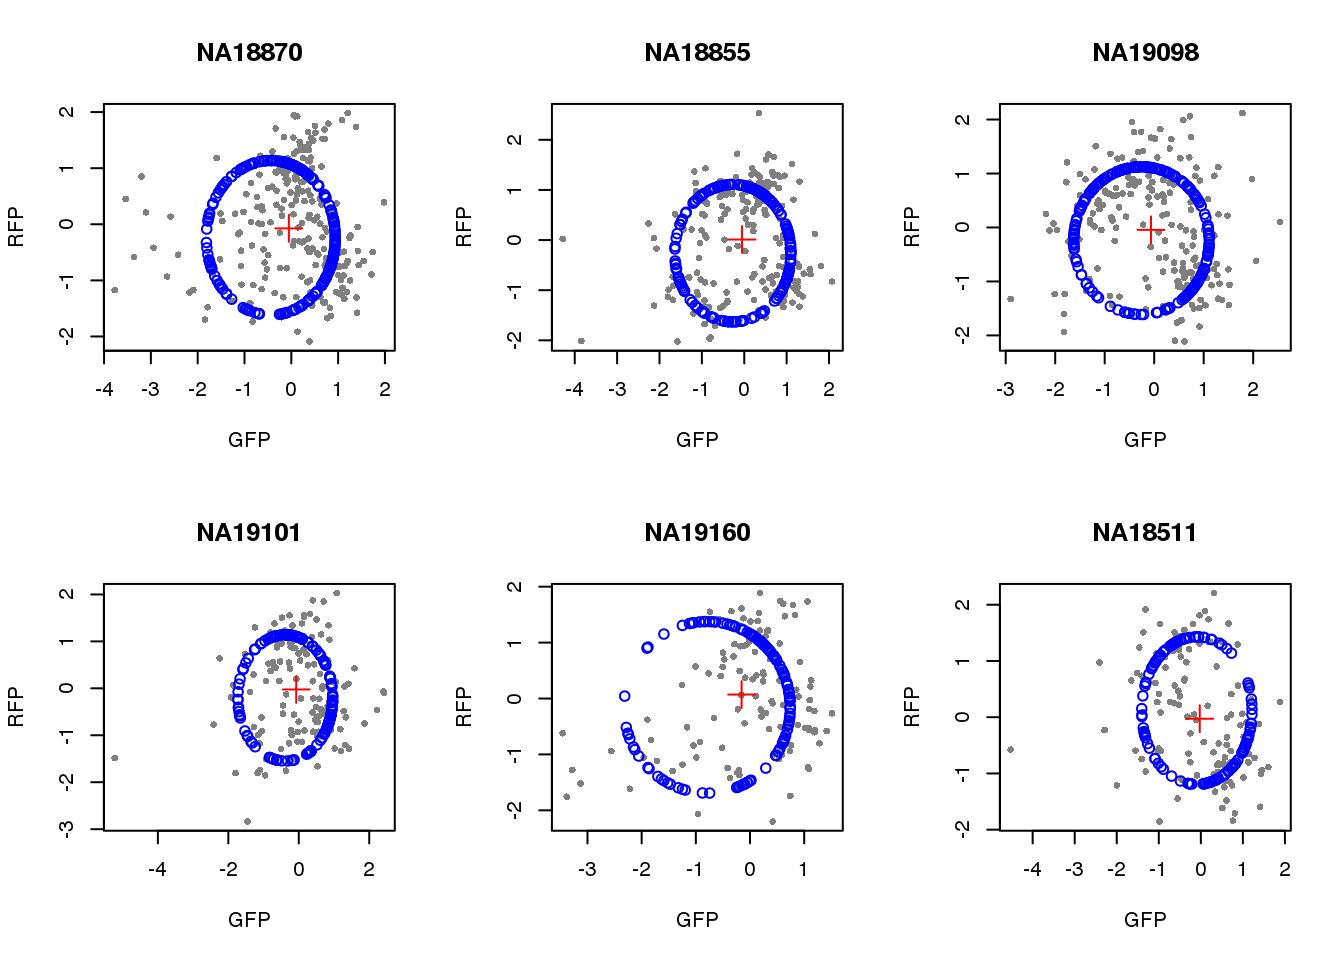
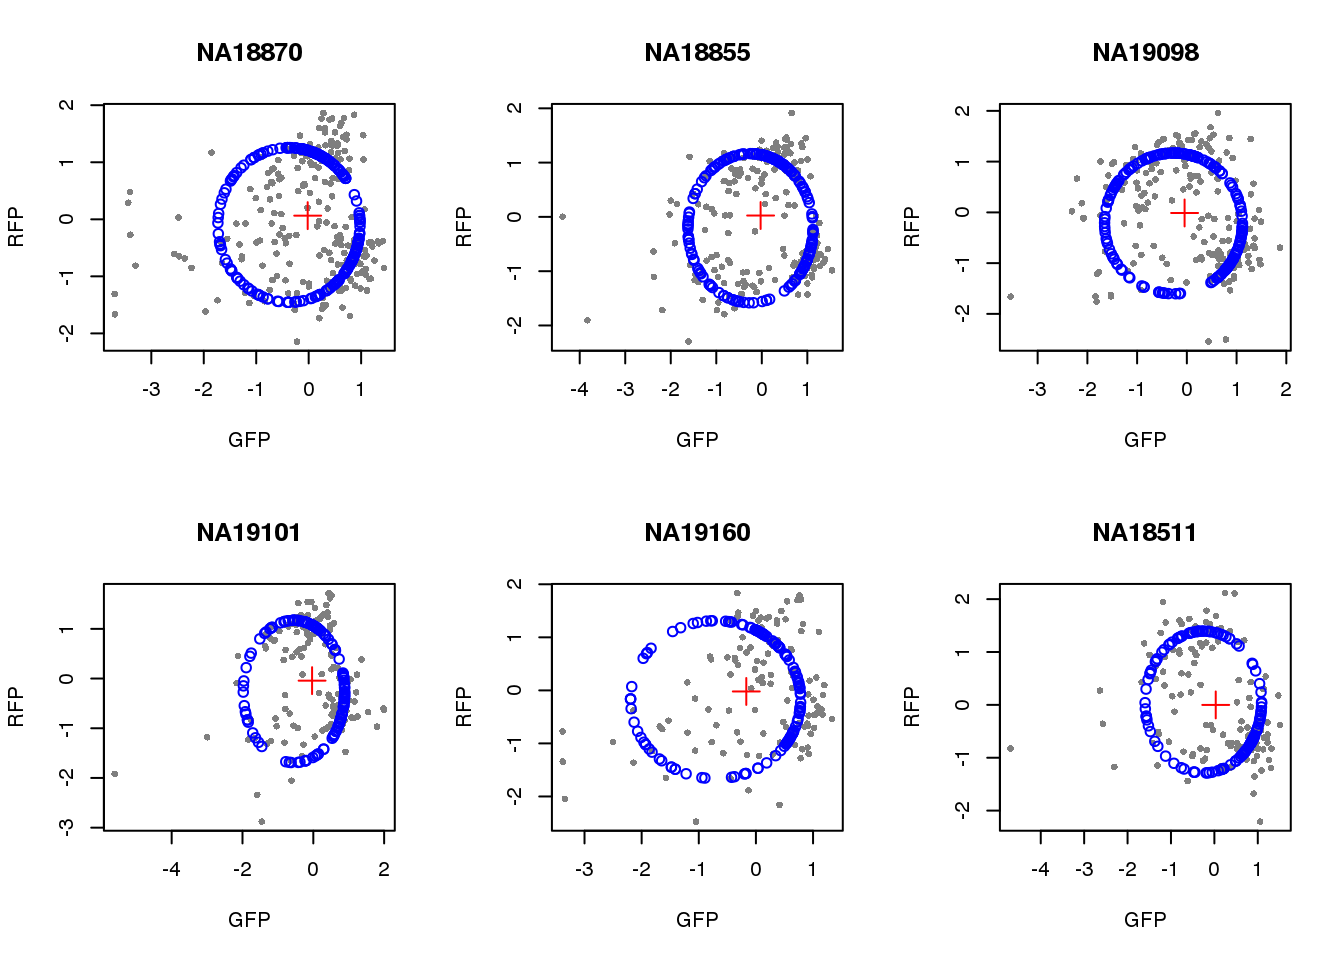
Build site.

diff --git a/docs/images-circle-ordering.html b/docs/images-circle-ordering.html
@@ -319,10 +319,10 @@ div.section {
 shared across the workflowr files. -->
 <!-- Update knitr chunk options -->
 <!-- Insert the date the file was last updated -->
-<p><strong>Last updated:</strong> 2018-02-22</p>
+<p><strong>Last updated:</strong> 2018-02-23</p>
 <!-- Insert the code version (Git commit SHA1) if Git repository exists and R
  package git2r is installed -->
-<p><strong>Code version:</strong> be8a2ca</p>
+<p><strong>Code version:</strong> f434aa3</p>
 <hr />
 <div id="overviewresults" class="section level2">
 <h2>Overview/Results</h2>
@@ -353,19 +353,18 @@ counts &lt;- exprs(df)[grep(&quot;ENSG&quot;, rownames(df)), ]
 
 # import corrected intensities
 pdata.adj &lt;- readRDS(&quot;../output/images-normalize-anova.Rmd/pdata.adj.rds&quot;)</code></pre>
-<p>visualize intensity data on a circle. project intensity data onto radians and the visualize the fitting on circles. then use cellcycleR to perform fitting and compare the model fitting with the projection results. it seems that the predicted ordering is especially bad for the gree intensities, which have many outliers. another reason I suspect isthat it attemps to fit similar amplitude/phase parameters to the green and red intensities.</p>
 </div>
 <div id="circle-fitting" class="section level2">
 <h2>Circle fitting</h2>
 <p>Based on all data.</p>
 <pre class="r"><code>source(&quot;../code/circle.intensity.fit.R&quot;)
-sample_names &lt;- rownames(pdata.adj)
+#sample_names &lt;- rownames(pdata.adj)
 
 pdata.adj &lt;- pdata.adj %&gt;% group_by(chip_id) %&gt;% 
-  mutate(rfp.z=scale(rfp.median.log10sum.adjust),
-            gfp.z=scale(gfp.median.log10sum.adjust),
-            dapi.z=scale(dapi.median.log10sum.adjust))
-rownames(pdata.adj) &lt;- sample_names
+  mutate(rfp.z=scale(rfp.median.log10sum.adjust.ash),
+            gfp.z=scale(gfp.median.log10sum.adjust.ash),
+            dapi.z=scale(dapi.median.log10sum.adjust.ash))
+pdata.adj &lt;- data.frame(pdata.adj)
   
 par(mfrow=c(2,3))
 for(i in 1:length(unique(pdata.adj$chip_id))) {
